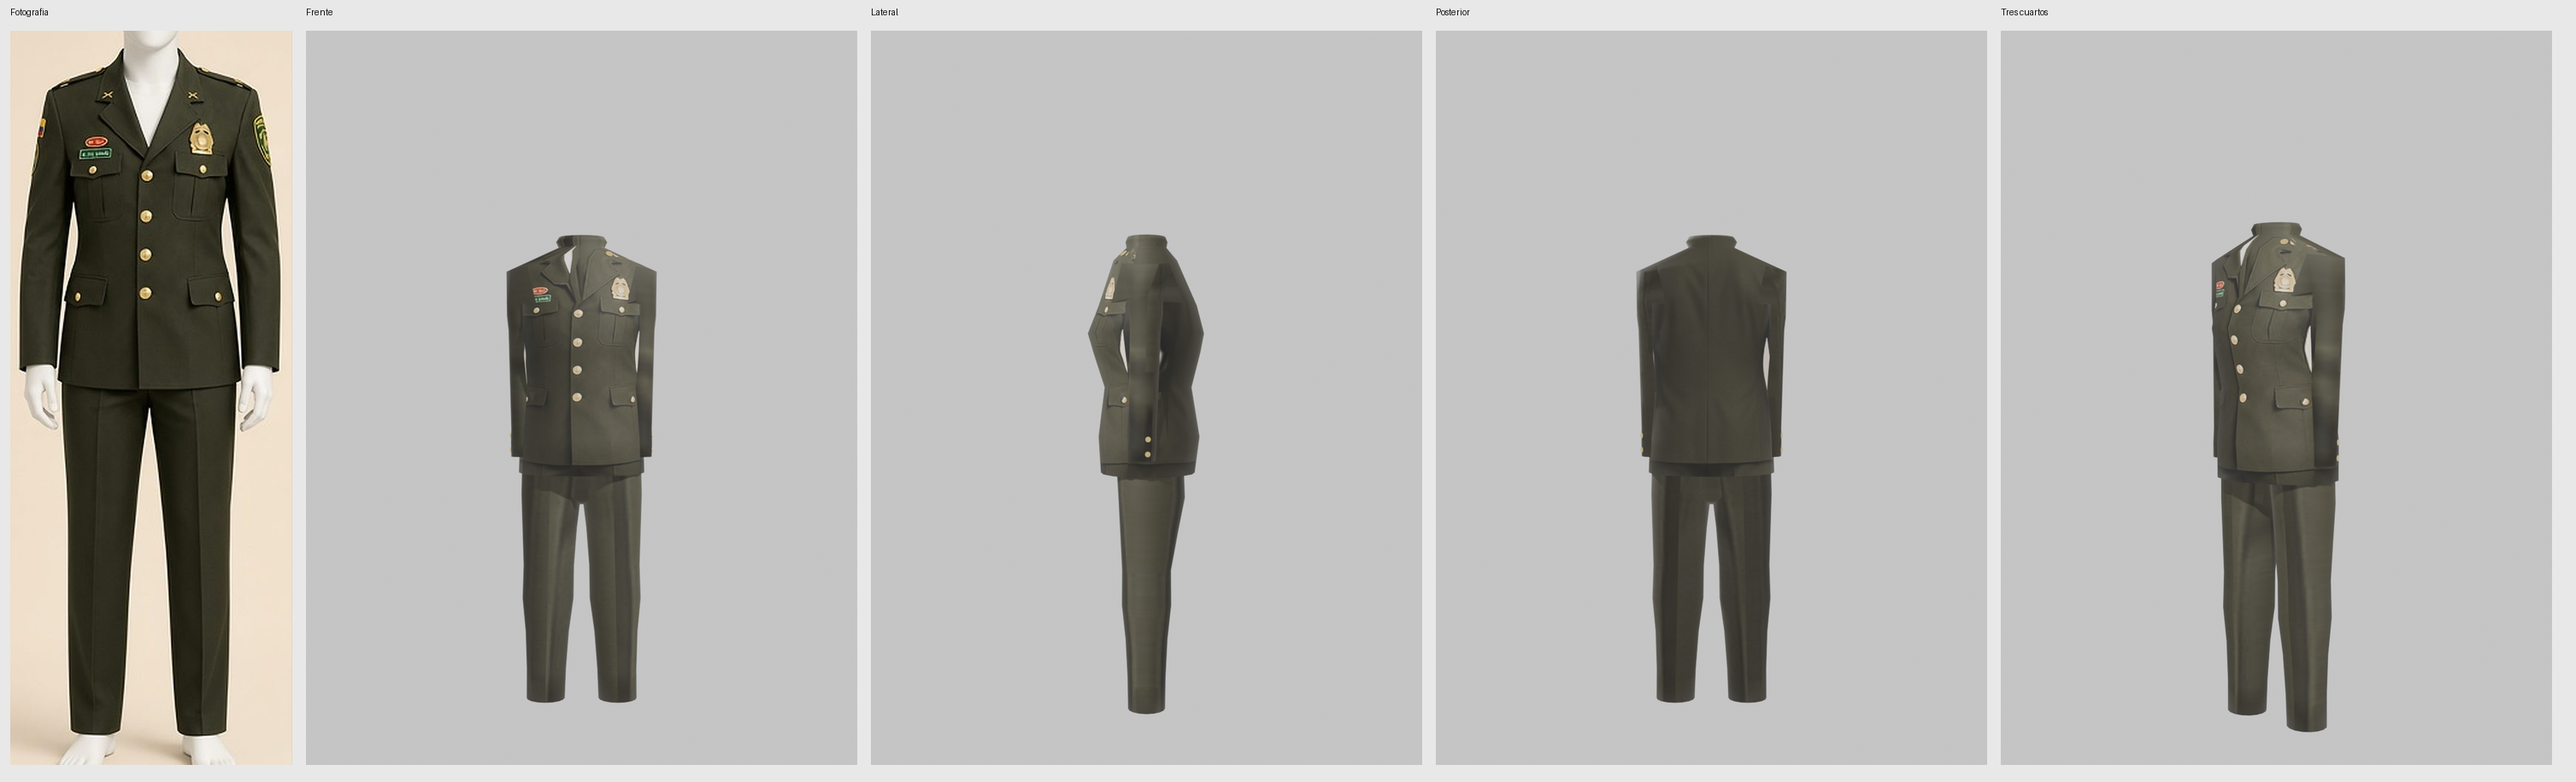
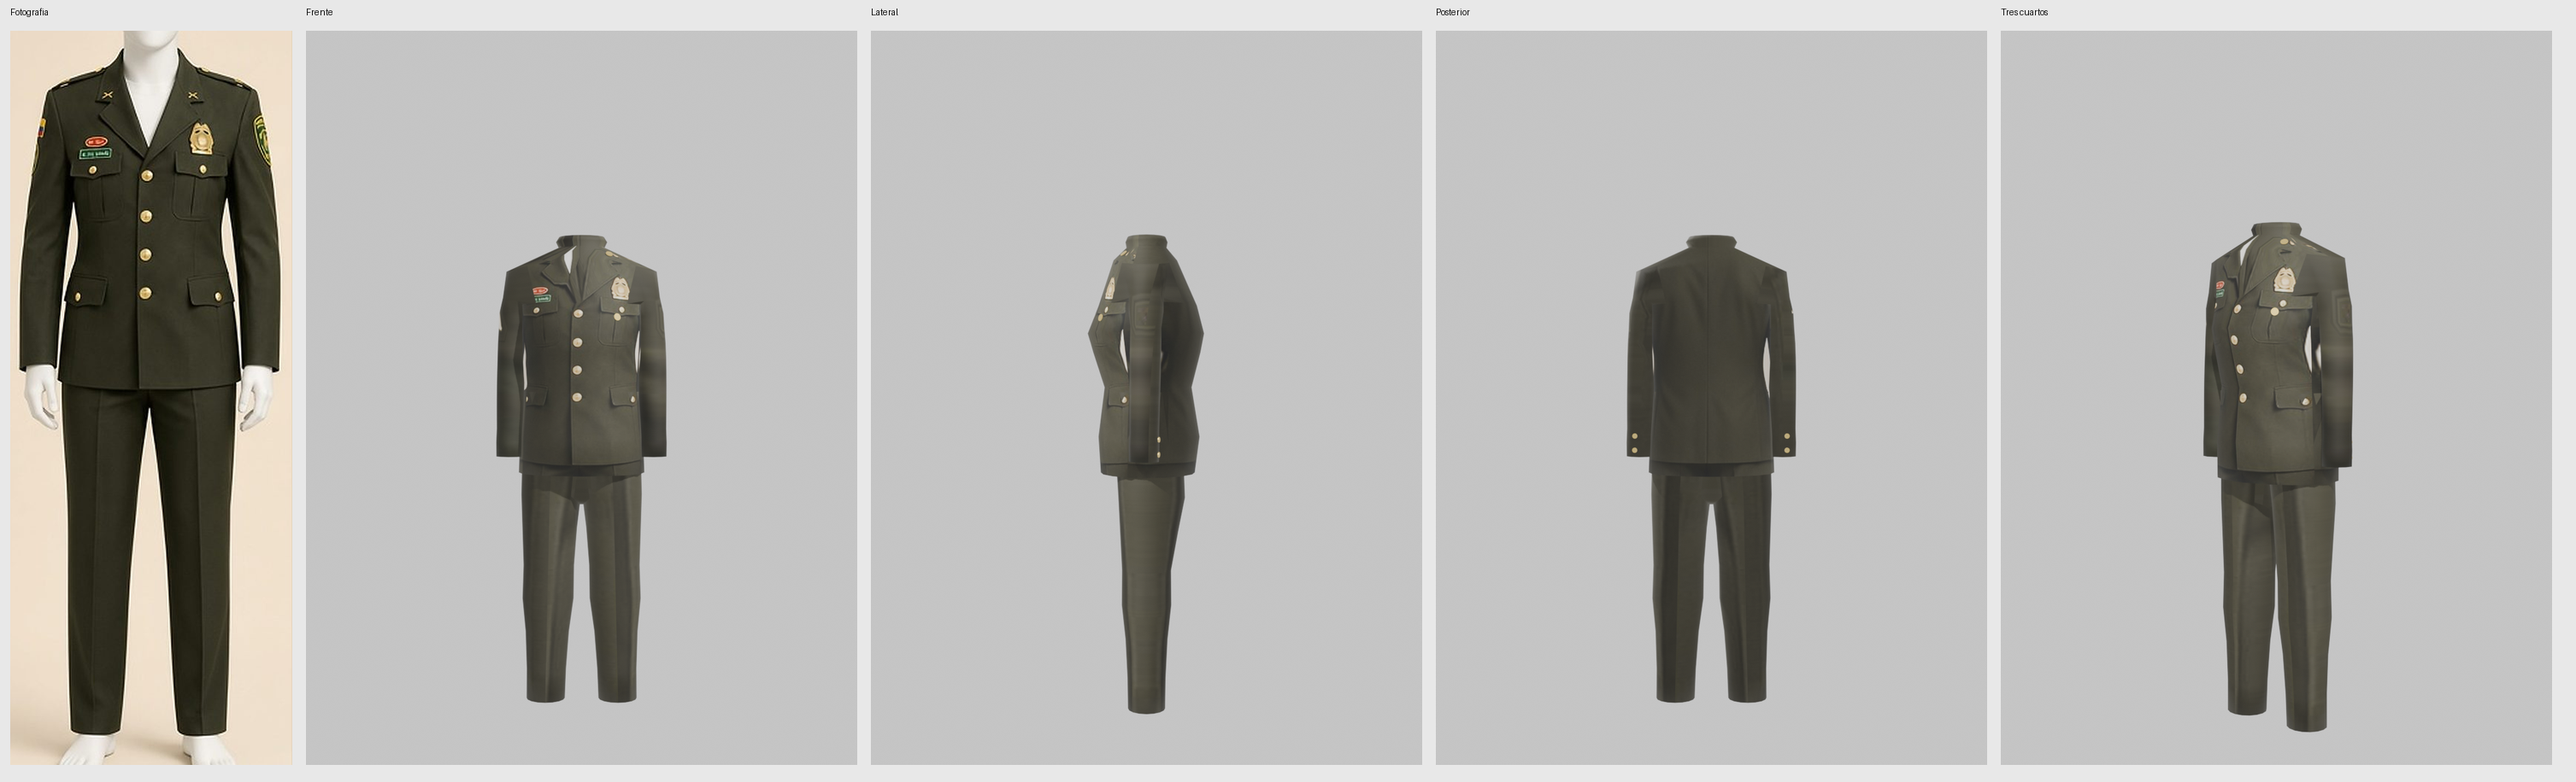
Separa un poco los brazos del PONAL #3 para que no queden pegados al torso.

diff --git a/modelos/prueba/index.html b/modelos/prueba/index.html
@@ -21,34 +21,34 @@
   <main>
     <h1>PONAL #3, prueba</h1>
     <p>Arrastre el modelo para verlo por todos los lados. La primera imagen compara la fotografía con el frente, el lateral, la espalda y los tres cuartos.</p>
-    <model-viewer src="ponal-3.glb?v=4" camera-controls touch-action="pan-y" shadow-intensity="0.35" exposure="1.05" alt="Uniforme PONAL #3 de prueba"></model-viewer>
+    <model-viewer src="ponal-3.glb?v=5" camera-controls touch-action="pan-y" shadow-intensity="0.35" exposure="1.05" alt="Uniforme PONAL #3 de prueba"></model-viewer>
     <div class="vistas">
       <figure>
-        <img src="vistas/comparacion.png?v=4" alt="Comparación del uniforme PONAL #3 con la fotografía original">
+        <img src="vistas/comparacion.png?v=5" alt="Comparación del uniforme PONAL #3 con la fotografía original">
         <figcaption>Comparación con la fotografía</figcaption>
       </figure>
       <figure>
-        <img src="vistas/frente.png?v=4" alt="Frente del uniforme PONAL #3">
+        <img src="vistas/frente.png?v=5" alt="Frente del uniforme PONAL #3">
         <figcaption>Frente</figcaption>
       </figure>
       <figure>
-        <img src="vistas/espalda.png?v=4" alt="Espalda del uniforme PONAL #3">
+        <img src="vistas/espalda.png?v=5" alt="Espalda del uniforme PONAL #3">
         <figcaption>Espalda</figcaption>
       </figure>
       <figure>
-        <img src="vistas/perfil-izquierdo.png?v=4" alt="Perfil izquierdo del uniforme PONAL #3">
+        <img src="vistas/perfil-izquierdo.png?v=5" alt="Perfil izquierdo del uniforme PONAL #3">
         <figcaption>Perfil izquierdo</figcaption>
       </figure>
       <figure>
-        <img src="vistas/perfil-derecho.png?v=4" alt="Perfil derecho del uniforme PONAL #3">
+        <img src="vistas/perfil-derecho.png?v=5" alt="Perfil derecho del uniforme PONAL #3">
         <figcaption>Perfil derecho</figcaption>
       </figure>
       <figure>
-        <img src="vistas/tres-cuartos.png?v=4" alt="Tres cuartos izquierdo del uniforme PONAL #3">
+        <img src="vistas/tres-cuartos.png?v=5" alt="Tres cuartos izquierdo del uniforme PONAL #3">
         <figcaption>Tres cuartos izquierdo</figcaption>
       </figure>
       <figure>
-        <img src="vistas/tres-cuartos-derecho.png?v=4" alt="Tres cuartos derecho del uniforme PONAL #3">
+        <img src="vistas/tres-cuartos-derecho.png?v=5" alt="Tres cuartos derecho del uniforme PONAL #3">
         <figcaption>Tres cuartos derecho</figcaption>
       </figure>
     </div>

diff --git a/modelos/prueba/ponal3_uniforme.py b/modelos/prueba/ponal3_uniforme.py
@@ -242,10 +242,10 @@ def construir_manga(bm, lazo, signo):
     radio_puno = metros(MEDIDAS["manga_puno"]) / 2.0
 
     def centro_en(t):
-        # Cuelga casi vertical desde la sisa, como en la foto.
-        destino_x = signo * (abs(origen.x) * 0.93 + 0.006)
-        x = origen.x + (destino_x - origen.x) * t
-        y = origen.y * (1.0 - t) - 0.015 * t
+        # La sisa sigue pegada al hombro. El brazo se abre unos 4 cm.
+        afuera = signo * 0.042 * (1.0 - math.exp(-t * 5.0))
+        x = origen.x + afuera
+        y = origen.y * (1.0 - t) - 0.008 * t
         return Vector((x, y, origen.z - largo * t))
 
     anillos = [lazo]
